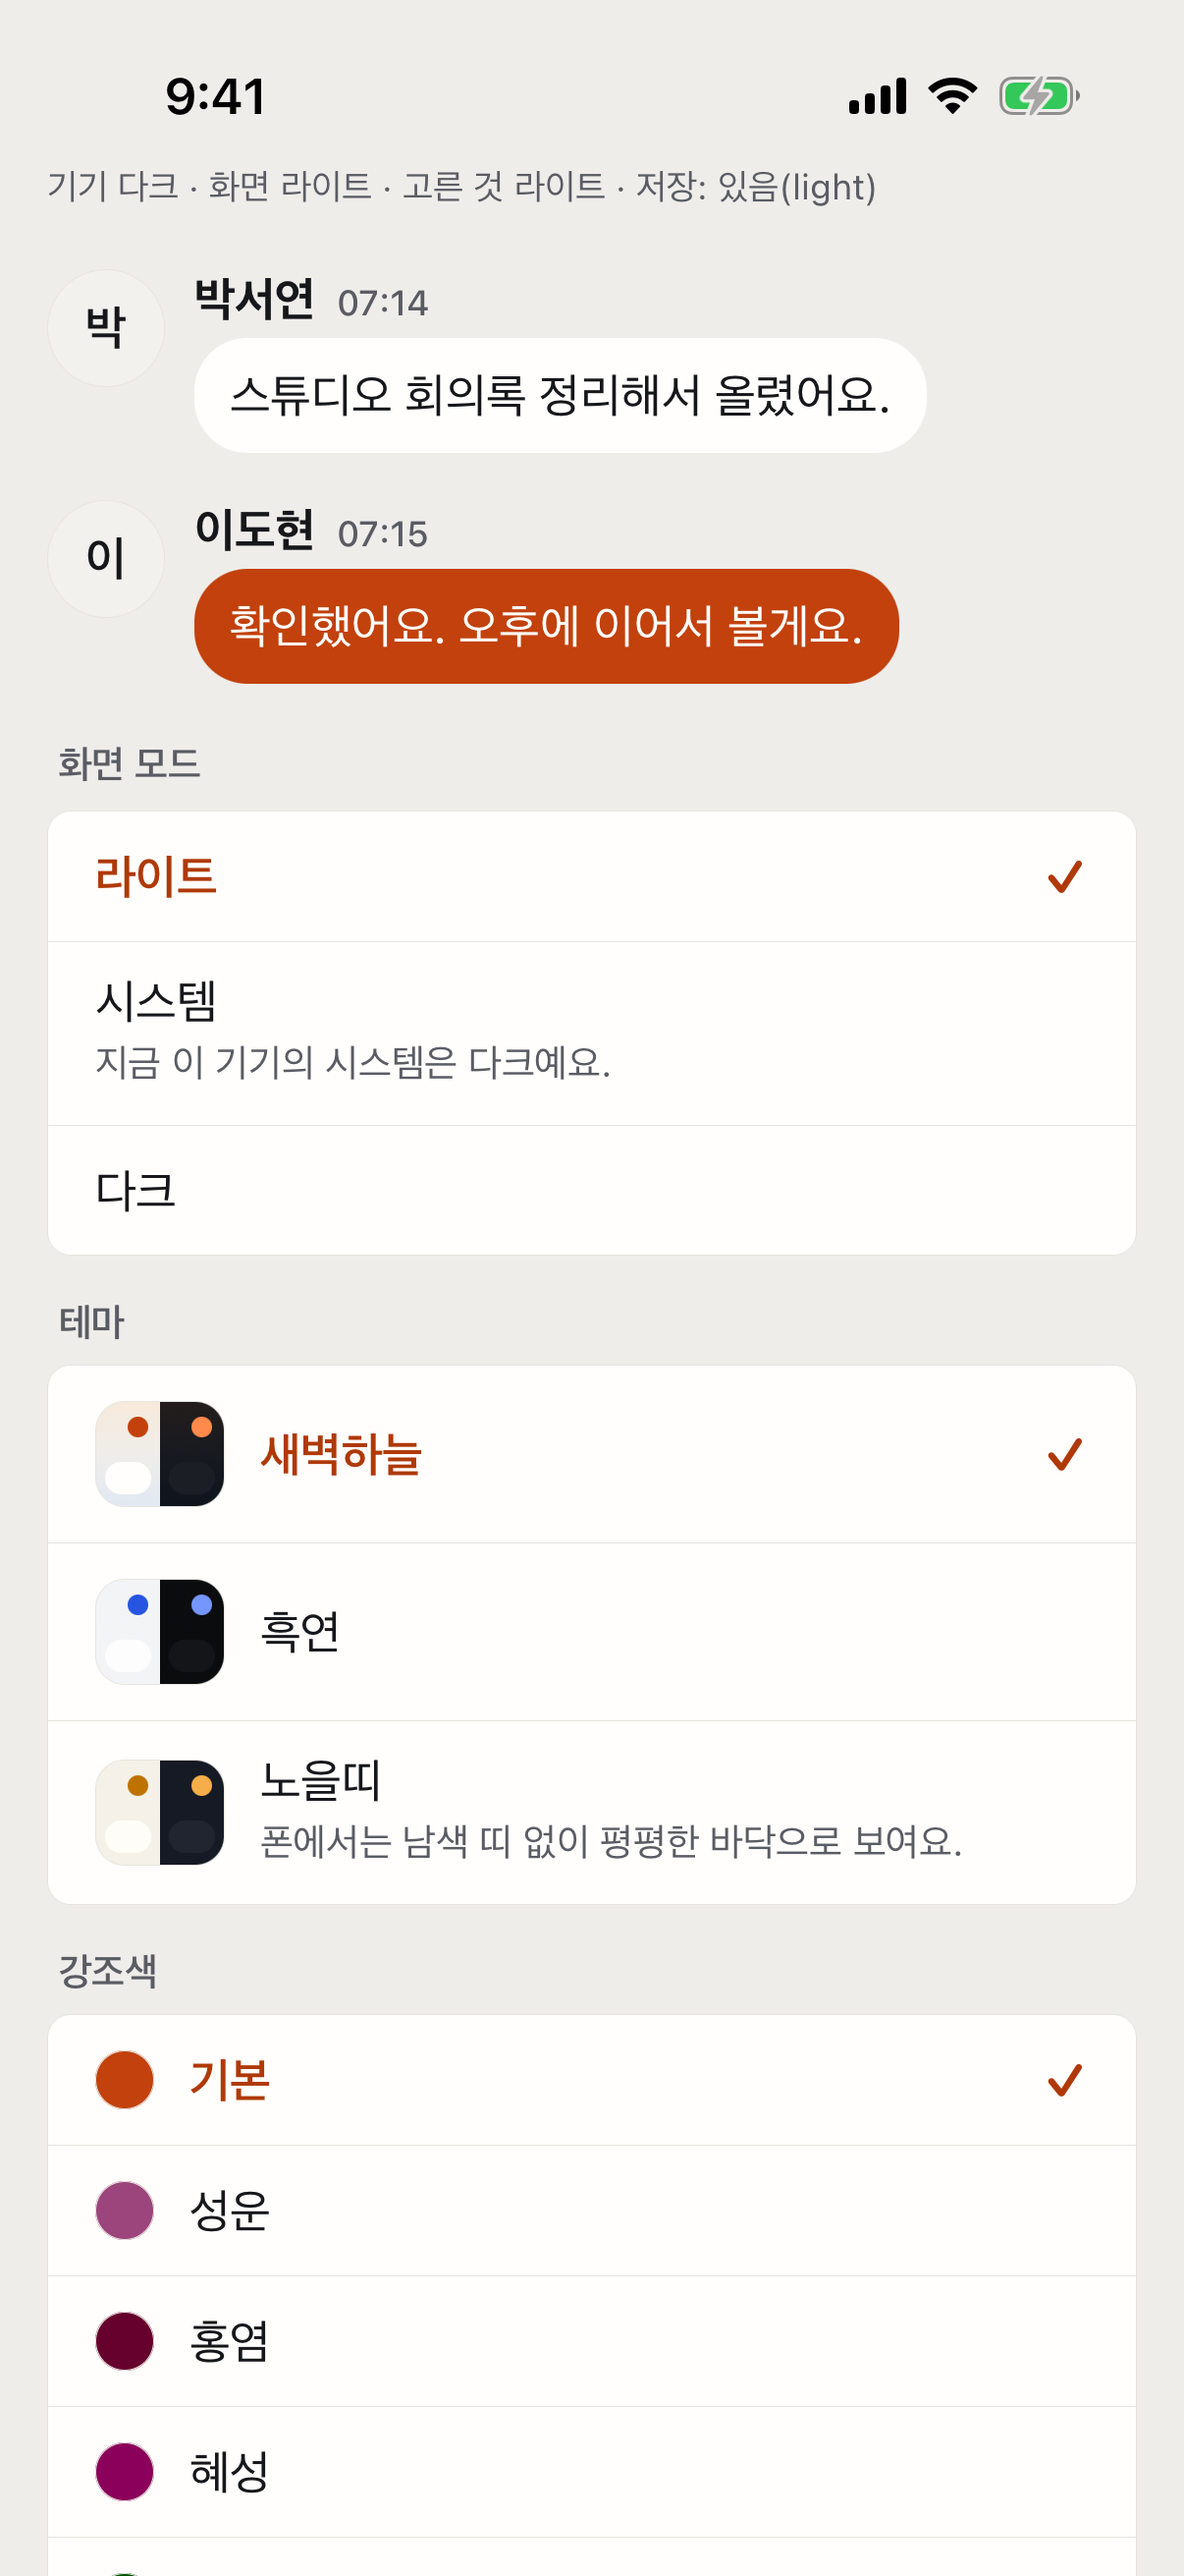
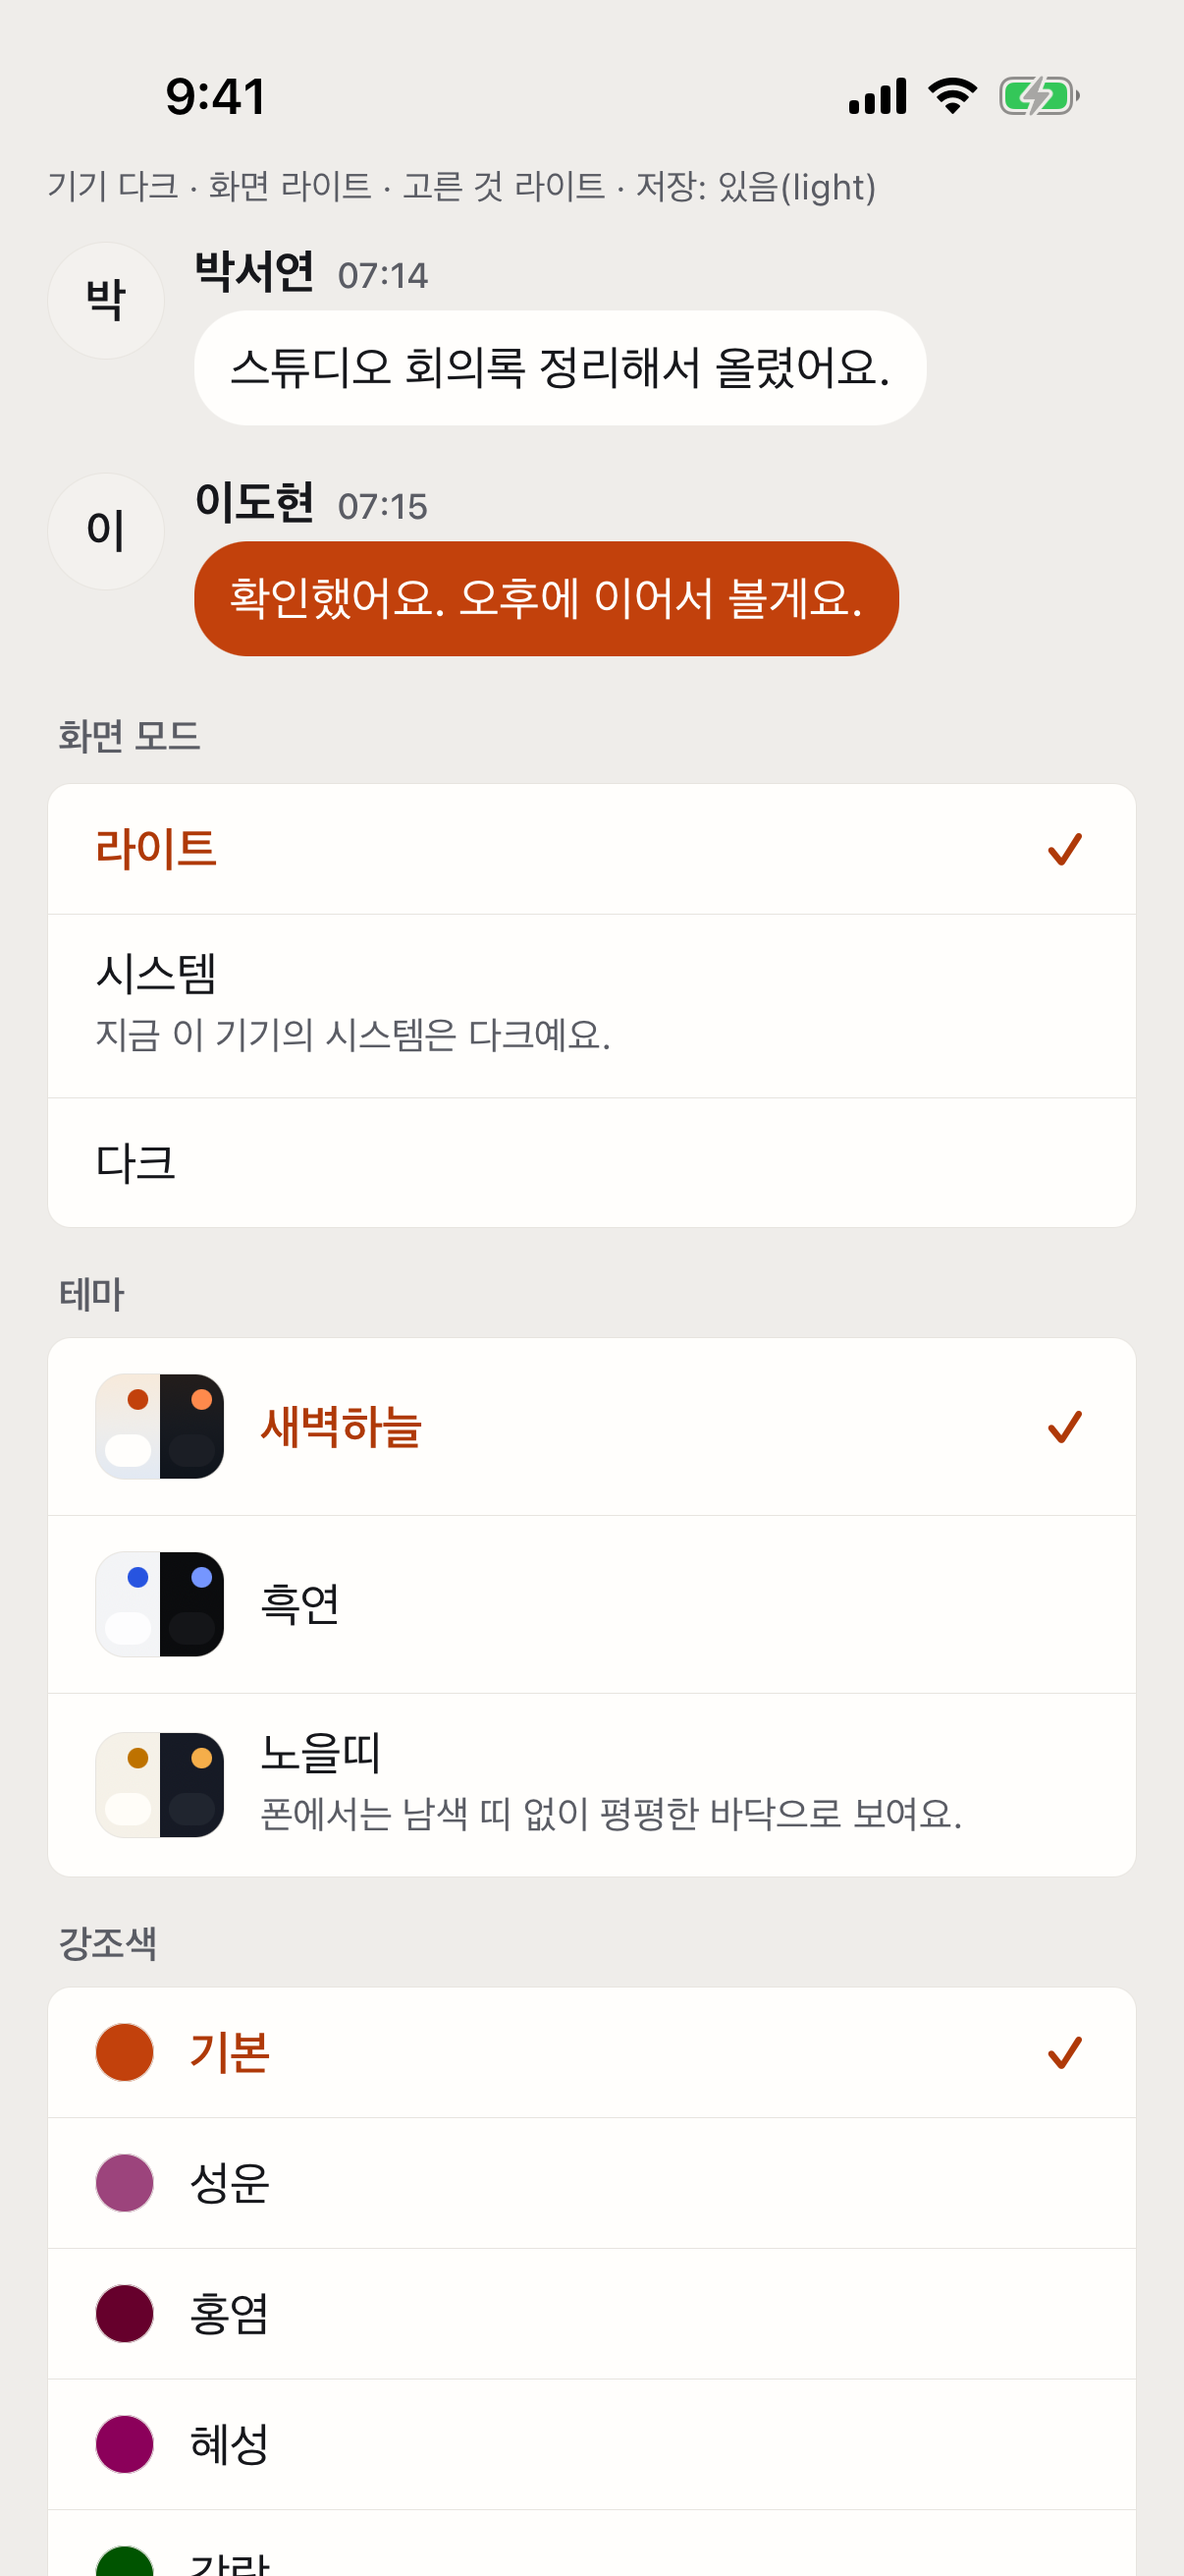
test(mobile): #4526 런치 연속 프레임·키보드 캡처 13장 재촬영 — 다크 기기 새 빌드, 대조군 포함
- 수리 전 결함 증거였던 옛 08(다크 런치 프레임)·09(라이트 앱 위 다크 키보드)는 지우고, 같은 방법으로 새로 찍었다.
  08 안 고른 다크 기기의 콜드 스타트 연속 프레임(홈 → 확대 → 라이트 런치 → Debug 로딩 막대 → 라이트 로그인, 어두운 프레임 0)
  09 한 번도 안 고른 폰(저장 없음)의 라이트 앱 위 키보드 = 라이트
  10 다크를 고른 폰(다크 기기)의 키보드 = 다크
  11 다크를 고른 폰 + 기기 라이트의 키보드 = 다크 (기기가 아니라 앱을 따른다는 변별 컷)
  12 다크를 고른 폰의 콜드 스타트 = 수용한 비용(라이트 약 0.5초 → 다크, Debug)
  13 대조군: 수리 전 색 자산(다크 변형 포함)으로 같은 방법을 돌리면 어두운 런치 프레임이 잡힌다 — 방법이 헛돌지 않는다는 증거
- 01~07은 같은 빌드로 다시 찍었다(새 base 위, 첫 말풍선 이름 줄이 캡션 밑에 잘리지 않게 목록 맨 위로 되돌리는 표지 theme-live-top 추가).
- Maestro: 111 은 키보드 단계를 「안 고른 상태」 직후로 옮기고, 112(다크를 고른 폰의 키보드)를 더했다.

diff --git a/clients/mobile/measure/themeLive.tsx b/clients/mobile/measure/themeLive.tsx
@@ -104,6 +104,8 @@ function Content(): React.JSX.Element {
         {`기기 ${name(systemScheme)} · 화면 ${name(scheme)} · 고른 것 ${themeChoiceLabel(choice)} · ${storedLine()}`}
       </Text>
       <ScrollView contentContainerStyle={styles.scroll}>
+        {/* 캡처 흐름이 목록을 맨 위로 되돌릴 때 찾는 표지다(Maestro `scrollUntilVisible`). 높이 1 — 안 보이면 못 찾는다. */}
+        <View testID="theme-live-top" style={styles.top} />
         {MESSAGES.map((item, index) => (
           <MessageRow
             key={item.id}
@@ -142,5 +144,6 @@ const buildStyles = (color: Palette) =>
       paddingBottom: space.sm,
     },
     scroll: {paddingBottom: 48},
+    top: {height: 1},
     control: {paddingHorizontal: space.lg, paddingTop: space.lg},
   });
